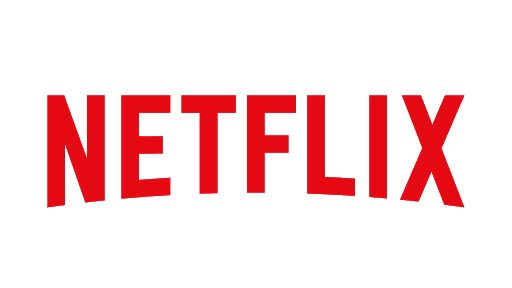
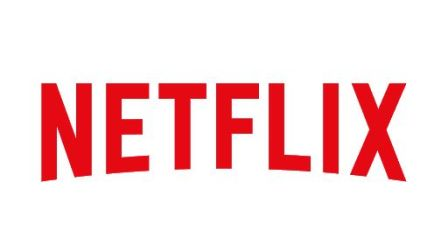
compress images

diff --git a/home.html b/home.html
@@ -159,7 +159,7 @@
                             <div class="swiper-slide">
                                 <div class="slide-content row">
                                     <div class="col-sm-6">
-                                        <img src="images/who-us/graphics-design-company-lucknow.png"class="image-slide"
+                                        <img src="images/who-us/graphics-design-company-lucknow.jpg"class="image-slide"
                                             alt="...">
                                     </div>
                                     <div class="col-sm-6">
@@ -177,7 +177,7 @@
                             <div class="swiper-slide">
                                 <div class="slide-content row">
                                     <div class="col-sm-6">
-                                        <img src="images/who-us/data-sience.png"class="image-slide"
+                                        <img src="images/who-us/data-sience.jpg"class="image-slide"
                                             alt="...">
                                     </div>
                                     <div class="col-sm-6">
@@ -197,7 +197,7 @@
                             <div class="swiper-slide">
                                 <div class="slide-content row">
                                     <div class="col-sm-6">
-                                        <img src="images/who-us/digital.png"class="image-slide" alt="...">
+                                        <img src="images/who-us/digital.jpg"class="image-slide" alt="...">
                                     </div>
                                     <div class="col-sm-6">
                                         <div class="caption">
@@ -215,7 +215,7 @@
                             <div class="swiper-slide">
                                 <div class="slide-content row">
                                     <div class="col-sm-6">
-                                        <img src="images/who-us/web-design-agency.png" class="image-slide" alt="...">
+                                        <img src="images/who-us/web-design-agency.jpg" class="image-slide" alt="...">
                                     </div>
                                     <div class="col-sm-6">
                                         <div class="caption">
@@ -262,7 +262,7 @@
                                 <div class="swiper-slide"style="background-image:url(./images/why-us/myads2.jpg)"></div>
                                 <div class="swiper-slide"style="background-image:url(./images/why-us/myads3.jpg)"></div>
                                 <div class="swiper-slide"style="background-image:url(./images/why-us/myads4.jpg)"></div>
-                                <div class="swiper-slide"style="background-image:url(./images/why-us/Support.png)"></div>
+                                <div class="swiper-slide"style="background-image:url(./images/why-us/Support.jpg)"></div>
                                 <div class="swiper-slide"style="background-image:url(./images/why-us/myads5.jpg)"></div>
                                 <div class="swiper-slide"style="background-image:url(./images/why-us/time-money-quality.jpg)"></div>
                             </div>
